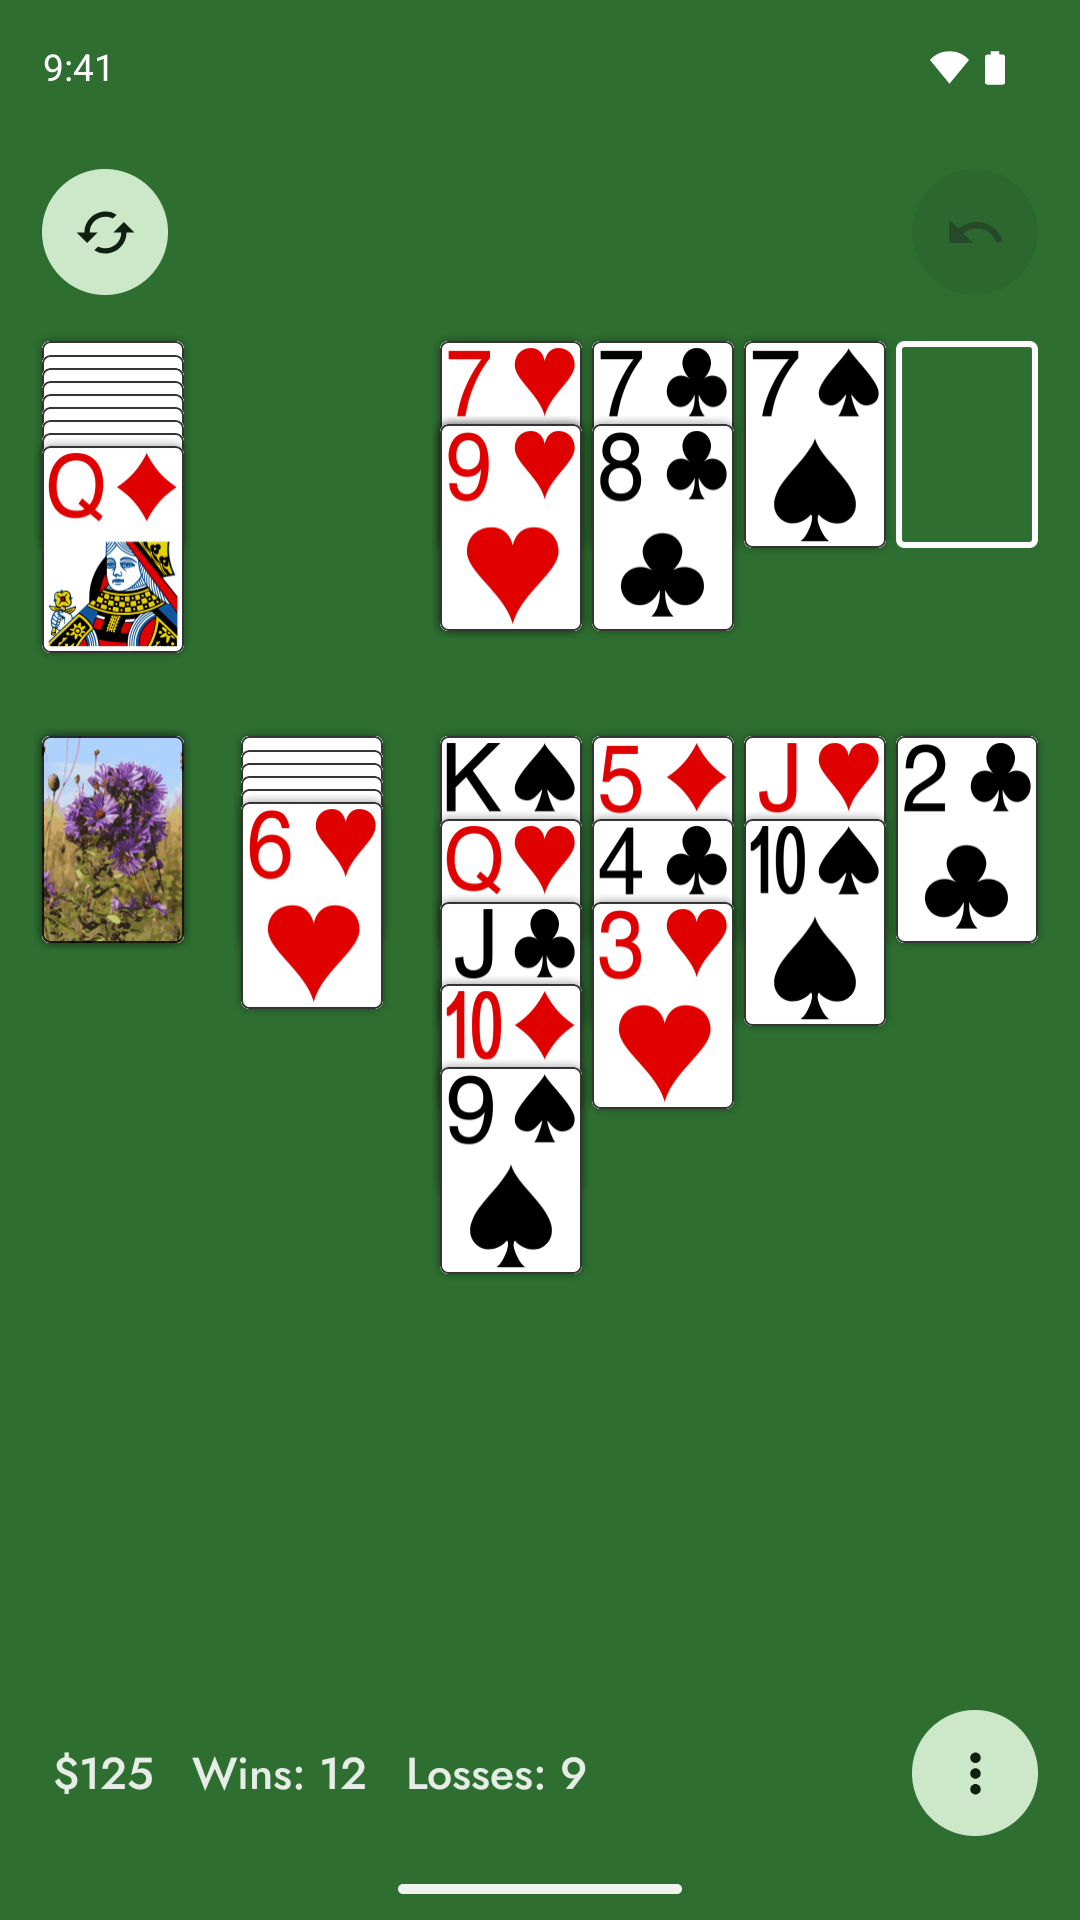
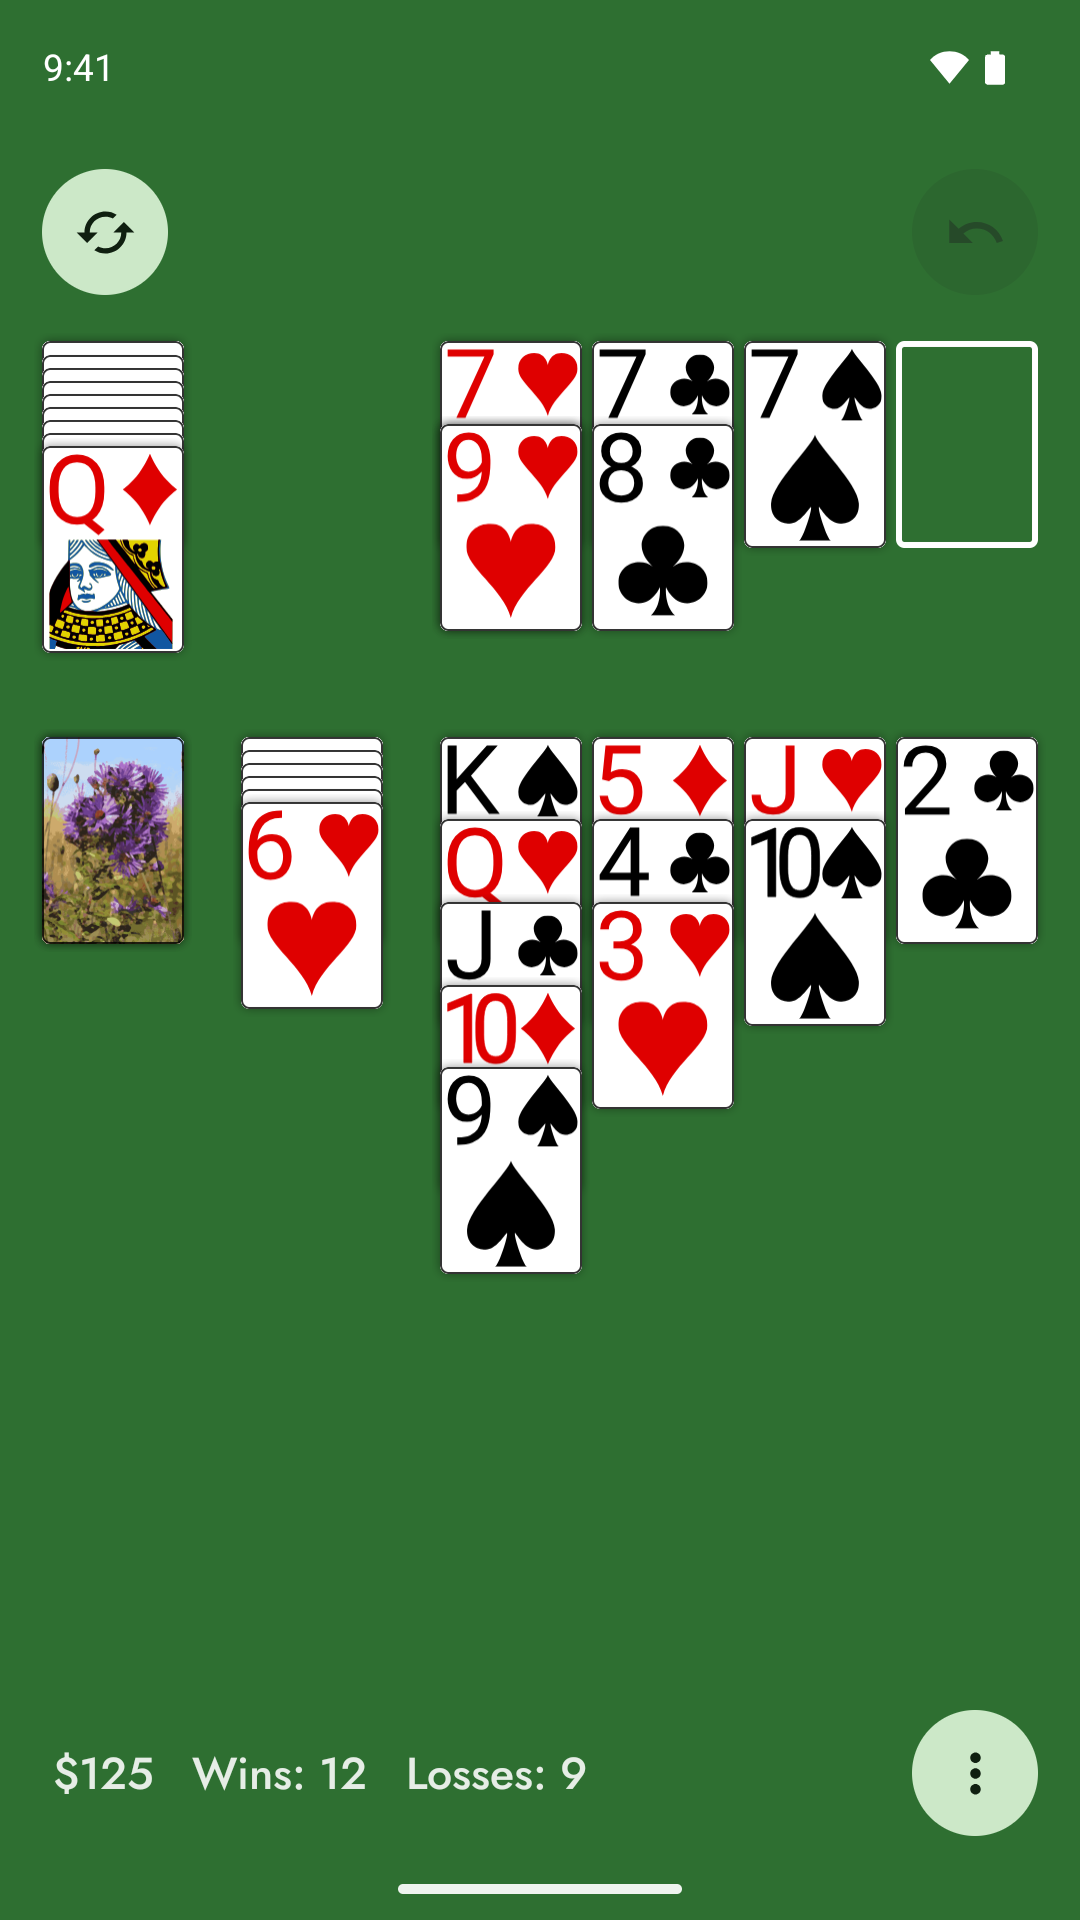
Address Play's pre-launch warnings, and show the new cards in the Play screenshots
- Fragment 1.1.0, which Google marks outdated, came in with Play services through the
  billing library; the app now asks for 1.9.1.
- The screenshot script's orientation lock is now only in debug builds, so release
  builds have no code that can lock the orientation.
- The Play Store screenshots show the Roboto cards.

Claude-Session: https://claude.ai/code/session_01CE1d5xP9GvDtiA7Rei4bWG

diff --git a/android/app/src/main/kotlin/net/dseelig/suzesolitaire/MainActivity.kt b/android/app/src/main/kotlin/net/dseelig/suzesolitaire/MainActivity.kt
@@ -1,8 +1,5 @@
 package net.dseelig.suzesolitaire
 
-import android.annotation.SuppressLint
-import android.content.pm.ActivityInfo
-import android.content.pm.ApplicationInfo
 import android.graphics.Color
 import android.os.Bundle
 import androidx.activity.ComponentActivity
@@ -29,19 +26,11 @@ import net.dseelig.suzesolitaire.ui.TableScreen
 class MainActivity : ComponentActivity() {
     private val game: GameViewModel by viewModels()
 
-    // Locking the orientation is only for the screenshot script, in debug builds
-    @SuppressLint("SourceLockedOrientationActivity")
     override fun onCreate(savedInstanceState: Bundle?) {
         // The felt runs under the status and navigation bars, which show light icons on it
         enableEdgeToEdge(statusBarStyle = SystemBarStyle.dark(Color.TRANSPARENT), navigationBarStyle = SystemBarStyle.dark(Color.TRANSPARENT))
         super.onCreate(savedInstanceState)
-        // scripts/android-screenshots.sh launches debug builds with an orientation, as the iOS scripts do
-        if (applicationInfo.flags and ApplicationInfo.FLAG_DEBUGGABLE != 0) {
-            when (intent.getStringExtra("screenshotOrientation")) {
-                "landscape" -> requestedOrientation = ActivityInfo.SCREEN_ORIENTATION_LANDSCAPE
-                "portrait" -> requestedOrientation = ActivityInfo.SCREEN_ORIENTATION_PORTRAIT
-            }
-        }
+        applyScreenshotOrientation(this)
         setContent {
             SuzeTheme {
                 var showingRules by rememberSaveable { mutableStateOf(false) }

diff --git a/android/app/src/debug/kotlin/net/dseelig/suzesolitaire/ScreenshotOrientation.kt b/android/app/src/debug/kotlin/net/dseelig/suzesolitaire/ScreenshotOrientation.kt
@@ -1,0 +1,15 @@
+package net.dseelig.suzesolitaire
+
+import android.annotation.SuppressLint
+import android.app.Activity
+import android.content.pm.ActivityInfo
+
+// scripts/android-screenshots.sh launches debug builds with an orientation, as the iOS scripts do.  Only debug builds
+// have this; release builds' copy does nothing, so they never lock the orientation (Play checks for any code that can).
+@SuppressLint("SourceLockedOrientationActivity")
+fun applyScreenshotOrientation(activity: Activity) {
+    when (activity.intent.getStringExtra("screenshotOrientation")) {
+        "landscape" -> activity.requestedOrientation = ActivityInfo.SCREEN_ORIENTATION_LANDSCAPE
+        "portrait" -> activity.requestedOrientation = ActivityInfo.SCREEN_ORIENTATION_PORTRAIT
+    }
+}

diff --git a/android/app/src/release/kotlin/net/dseelig/suzesolitaire/ScreenshotOrientation.kt b/android/app/src/release/kotlin/net/dseelig/suzesolitaire/ScreenshotOrientation.kt
@@ -1,0 +1,7 @@
+package net.dseelig.suzesolitaire
+
+import android.app.Activity
+
+// Only debug builds take an orientation from the screenshot script (see the debug copy of this file)
+@Suppress("UNUSED_PARAMETER")
+fun applyScreenshotOrientation(activity: Activity) {}
